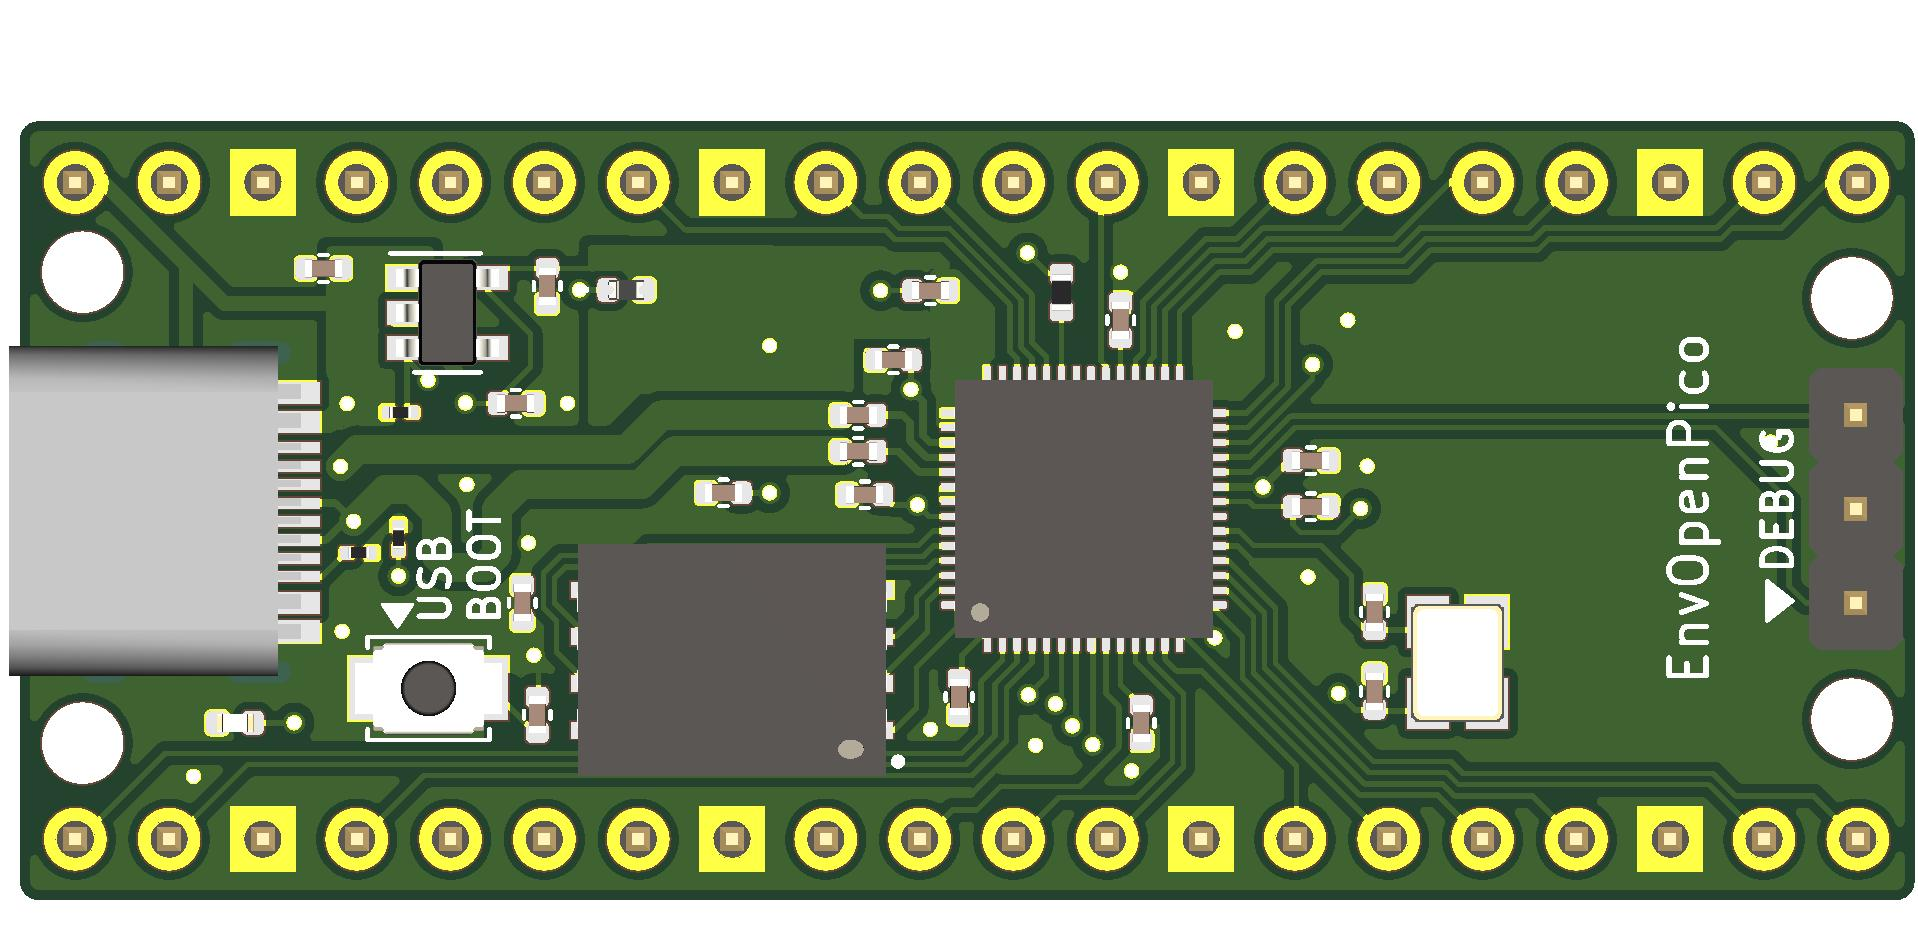
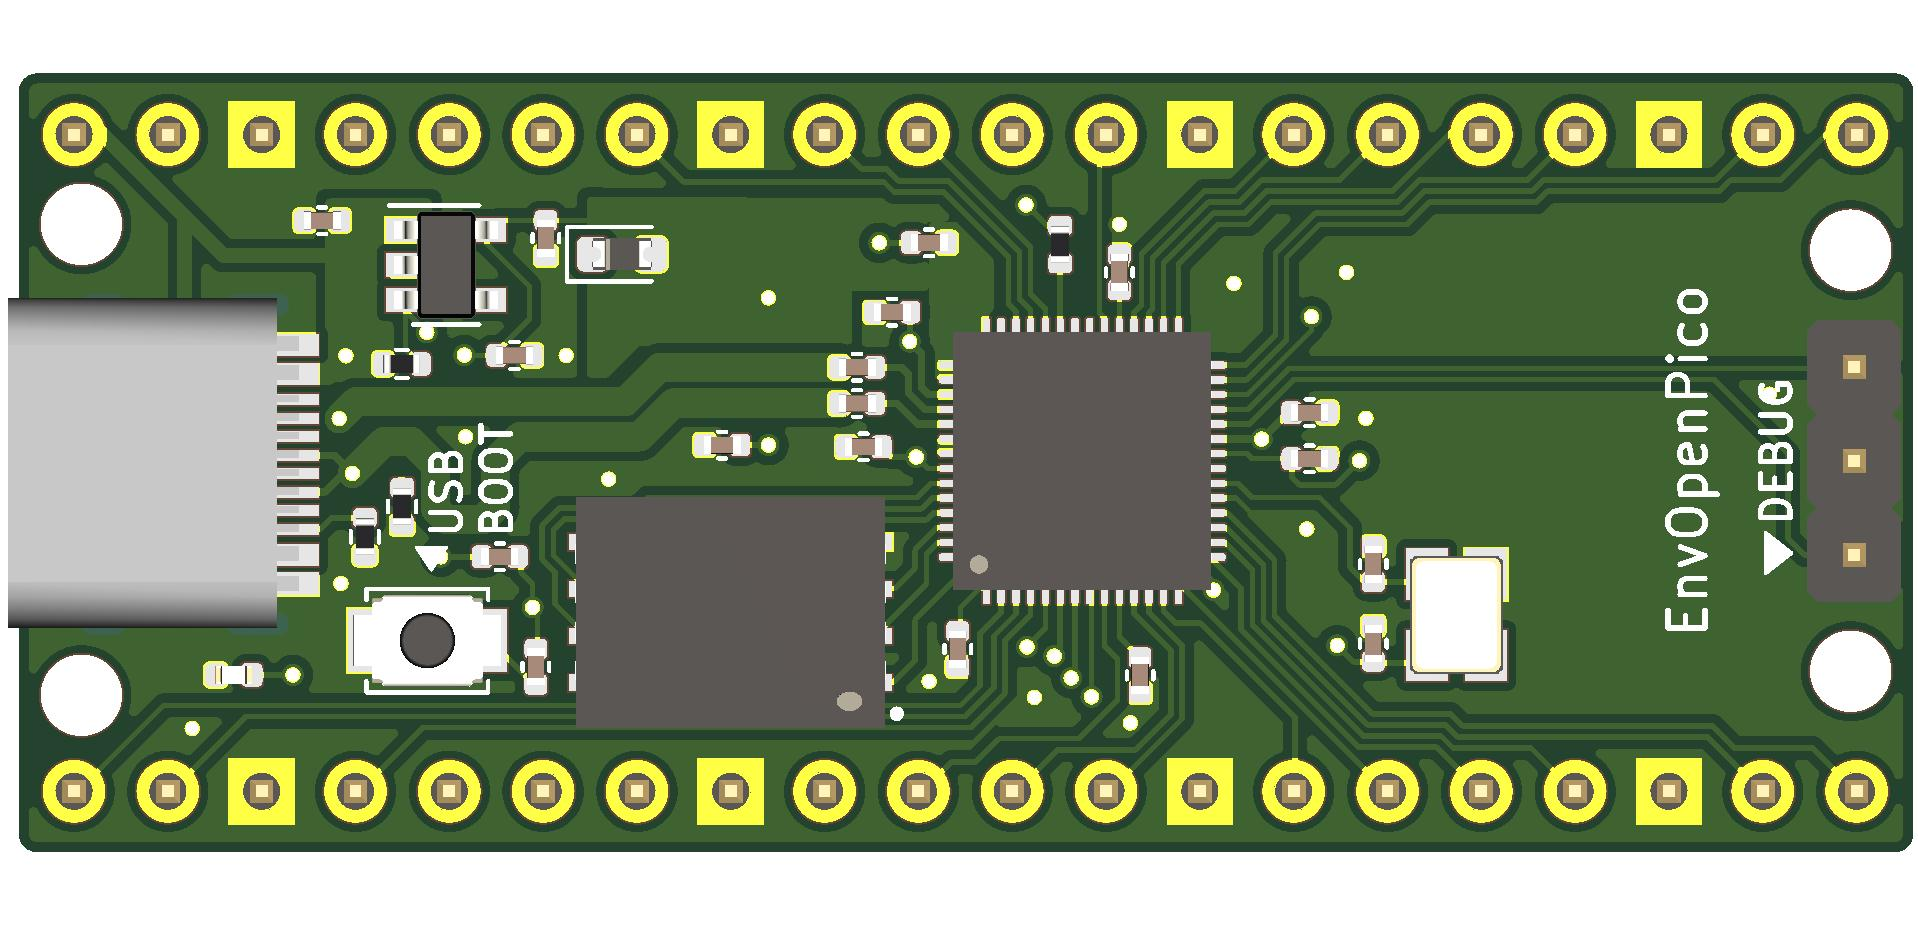
Updated Readme and Picture

diff --git a/README.md b/README.md
@@ -4,7 +4,7 @@
 ![OpenPico](EnvOpenPico.jpg)
 
 ### Intentions
-I'd like to design a RP2040 based MCU board that fits in place of a raspberry pi pico, the pinout will be the same but a couple things will change i.e there will be space left about to change the USB port for a Type-C, JST connector or even just 2.54mm pitch pins. (maybe with some smart design we can fit all of these on the board.)
+I'd like to design a RP2040 based MCU board that fits in place of a raspberry pi pico, so far most I have managed to replicate most of the pins with the exception of a couple i.e VSYS, ADC_VREF
 
 ### I need help!
 Sure I know how to throw together a Keyboard that uses the Pi Pico in KiCad but that doesnt translate to being able to design a microcontroller board.
@@ -12,9 +12,18 @@ Sure I know how to throw together a Keyboard that uses the Pi Pico in KiCad but 
 ### extra notes
 I'd like to use JLCPCB so if you do wish to contribute I would highly apreciate if we can have most if not the whole board pre-assembled by JLCPCB. (other than the 2.54mm pins of course)
 
+DO NOTE that if you want one of these for your self some manual assembly is required, JLCPCB obviously doesnt stock RP2040s nor the flash chip or the usb boot button, they do however stock most generic parts i.e 0402 diodes, 0201 caps/resistors and etc.
+(btw the button is a Omron B3U, I think I forgot to add that to the Schematic as of writing this)
+
+
 ### To Do's 
 - [x] ~~move all SMD components to top side of PCB~~
 - [x] ~~Smaller Crystal chip~~
-- [ ] Want to replace Quad SPI flash with a smaller one
+- [x] ~~Want to replace Quad SPI flash with a smaller one~~
+- [x] ~A small button instead of pin headers for USB Boot would be great.~~
 - [ ] Need someone probably port circuitpython to this, QMK would be a huge bonus since I'd love to use this with my keyboards.
-- [ ] A small button instead of pin headers for USB Boot would be great.
+- - I think porting circuitpython may be the easiest since other RP2040 boards use similar winbond flash chips
+
+#### Me?
+I need to learn how to do smd soldering type stuff so I can test this.
+but if you order this for your self, let me know how it goes and what doesnt work in reality that does on "paper".
